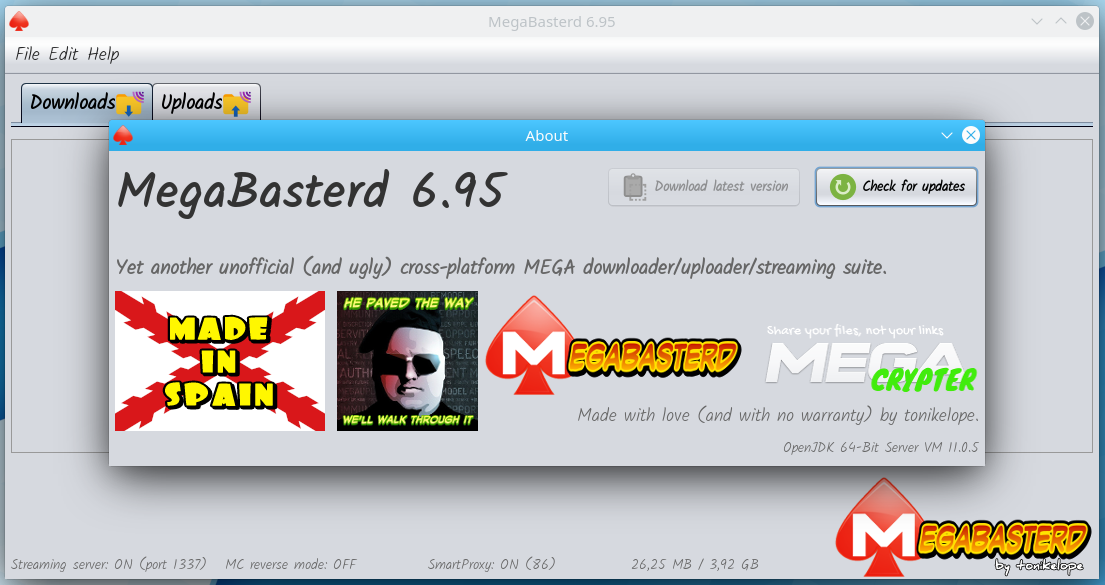
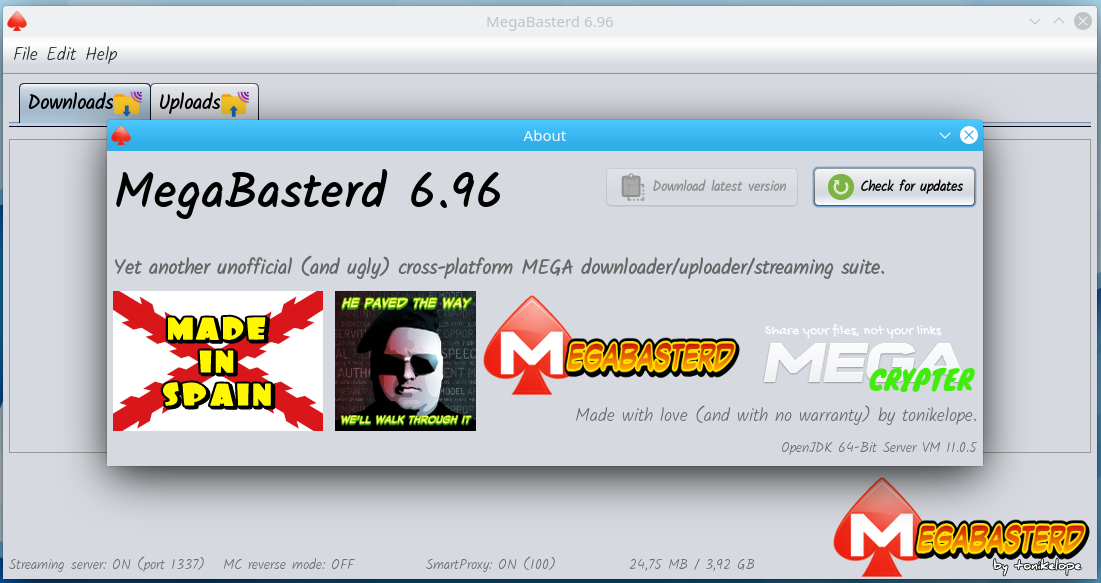
6.96
- PROGRESS  WATCHDOG 300 SECS ALL TRANSFERENCED

(cherry picked from commit c21cf46b2295355a49cc9d0d2cc2b2f50563e68b)

diff --git a/src/main/java/com/tonikelope/megabasterd/Upload.java b/src/main/java/com/tonikelope/megabasterd/Upload.java
@@ -1,5 +1,6 @@
 package com.tonikelope.megabasterd;
 
+import static com.tonikelope.megabasterd.Download.PROGRESS_WATCHDOG_TIMEOUT;
 import static com.tonikelope.megabasterd.MainPanel.*;
 import static com.tonikelope.megabasterd.MiscTools.*;
 import java.io.File;
@@ -75,11 +76,13 @@ public class Upload implements Transference, Runnable, SecureSingleThreadNotifia
     private volatile boolean _canceled;
     private volatile String _temp_mac_data;
     private final boolean _priority;
+    private final Object _progress_watchdog_lock;
 
     public Upload(MainPanel main_panel, MegaAPI ma, String filename, String parent_node, int[] ul_key, String ul_url, String root_node, byte[] share_key, String folder_link, boolean priority) {
 
         _notified = false;
         _priority = priority;
+        _progress_watchdog_lock = new Object();
         _frozen = main_panel.isInit_paused();
         _provision_ok = false;
         _status_error = null;
@@ -117,6 +120,7 @@ public class Upload implements Transference, Runnable, SecureSingleThreadNotifia
 
         _notified = false;
         _priority = upload.isPriority();
+        _progress_watchdog_lock = new Object();
         _provision_ok = false;
         _status_error = null;
         _auto_retry_on_error = true;
@@ -802,6 +806,36 @@ public class Upload implements Transference, Runnable, SecureSingleThreadNotifia
                     getView().getProgress_pbar().setVisible(true);
                 });
 
+                THREAD_POOL.execute(() -> {
+
+                    //PROGRESS WATCHDOG If a upload remains more than PROGRESS_WATCHDOG_TIMEOUT seconds without receiving data, we force fatal error in order to restart it.
+                    LOG.log(Level.INFO, "{0} PROGRESS WATCHDOG HELLO!", Thread.currentThread().getName());
+
+                    long last_progress, progress = getProgress();
+
+                    do {
+                        last_progress = progress;
+
+                        synchronized (_progress_watchdog_lock) {
+                            try {
+                                _progress_watchdog_lock.wait(PROGRESS_WATCHDOG_TIMEOUT * 1000);
+                                progress = getProgress();
+                            } catch (InterruptedException ex) {
+                                progress = -1;
+                                Logger.getLogger(Download.class.getName()).log(Level.SEVERE, null, ex);
+                            }
+                        }
+
+                    } while (!isExit() && !_thread_pool.isShutdown() && progress < getFile_size() && (isPaused() || progress > last_progress));
+
+                    if (!isExit() && !_thread_pool.isShutdown() && _status_error == null && progress < getFile_size() && progress <= last_progress) {
+                        stopUploader("PROGRESS WATCHDOG TIMEOUT!");
+                    }
+
+                    LOG.log(Level.INFO, "{0} PROGRESS WATCHDOG BYE BYE!", Thread.currentThread().getName());
+
+                });
+
                 secureWait();
 
                 LOG.log(Level.INFO, "{0} Chunkuploaders finished! {1}", new Object[]{Thread.currentThread().getName(), this.getFile_name()});
@@ -1045,6 +1079,10 @@ public class Upload implements Transference, Runnable, SecureSingleThreadNotifia
         }
 
         _exit = true;
+
+        synchronized (_progress_watchdog_lock) {
+            _progress_watchdog_lock.notifyAll();
+        }
 
         LOG.log(Level.INFO, "{0} Uploader {1} BYE BYE", new Object[]{Thread.currentThread().getName(), this.getFile_name()});
     }

diff --git a/src/main/java/com/tonikelope/megabasterd/Download.java b/src/main/java/com/tonikelope/megabasterd/Download.java
@@ -46,7 +46,6 @@ import javax.swing.JComponent;
 public class Download implements Transference, Runnable, SecureSingleThreadNotifiable {
 
     public static final boolean VERIFY_CBC_MAC_DEFAULT = false;
-    public static final int PROGRESS_WATCHDOG_TIMEOUT = 180;
     public static final boolean USE_SLOTS_DEFAULT = true;
     public static final int WORKERS_DEFAULT = 6;
     public static final boolean USE_MEGA_ACCOUNT_DOWN = false;
@@ -658,7 +657,7 @@ public class Download implements Transference, Runnable, SecureSingleThreadNotif
                         THREAD_POOL.execute(() -> {
 
                             //PROGRESS WATCHDOG If a download remains more than PROGRESS_WATCHDOG_TIMEOUT seconds without receiving data, we force fatal error in order to restart it.
-                            LOG.log(Level.INFO, "{0} SMART PROXY PROGRESS WATCHDOG HELLO!", Thread.currentThread().getName());
+                            LOG.log(Level.INFO, "{0} PROGRESS WATCHDOG HELLO!", Thread.currentThread().getName());
 
                             long last_progress, progress = getProgress();
 
@@ -675,17 +674,17 @@ public class Download implements Transference, Runnable, SecureSingleThreadNotif
                                     }
                                 }
 
-                            } while (!isExit() && !_thread_pool.isShutdown() && progress < getFile_size() && (!isTurbo() || isPaused() || progress > last_progress));
+                            } while (!isExit() && !_thread_pool.isShutdown() && progress < getFile_size() && (isPaused() || progress > last_progress));
 
-                            if (!isExit() && isTurbo() && !_thread_pool.isShutdown() && _status_error == null && progress < getFile_size() && progress <= last_progress) {
-                                stopDownloader("SMART PROXY PROGRESS WATCHDOG TIMEOUT!");
+                            if (!isExit() && !_thread_pool.isShutdown() && _status_error == null && progress < getFile_size() && progress <= last_progress) {
+                                stopDownloader("PROGRESS WATCHDOG TIMEOUT!");
 
                                 if (MainPanel.getProxy_manager() != null) {
                                     MainPanel.getProxy_manager().refreshProxyList(); //Force SmartProxy proxy list refresh
                                 }
                             }
 
-                            LOG.log(Level.INFO, "{0} SMART PROXY PROGRESS WATCHDOG BYE BYE!", Thread.currentThread().getName());
+                            LOG.log(Level.INFO, "{0} PROGRESS WATCHDOG BYE BYE!", Thread.currentThread().getName());
 
                         });
 

diff --git a/src/main/java/com/tonikelope/megabasterd/ChunkDownloader.java b/src/main/java/com/tonikelope/megabasterd/ChunkDownloader.java
@@ -218,6 +218,9 @@ public class ChunkDownloader implements Runnable, SecureSingleThreadNotifiable {
                 if (_current_smart_proxy != null) {
                     con.setConnectTimeout(Transference.HTTP_PROXY_CONNECT_TIMEOUT);
                     con.setReadTimeout(Transference.HTTP_PROXY_READ_TIMEOUT);
+                } else {
+                    con.setConnectTimeout(Transference.HTTP_CONNECT_TIMEOUT);
+                    con.setReadTimeout(Transference.HTTP_READ_TIMEOUT);
                 }
 
                 con.setUseCaches(false);

diff --git a/src/main/java/com/tonikelope/megabasterd/Transference.java b/src/main/java/com/tonikelope/megabasterd/Transference.java
@@ -12,8 +12,11 @@ public interface Transference {
     int MAX_WORKERS = 20;
     int HTTP_PROXY_CONNECT_TIMEOUT = 15000;
     int HTTP_PROXY_READ_TIMEOUT = 15000;
+    int HTTP_CONNECT_TIMEOUT = 60000;
+    int HTTP_READ_TIMEOUT = 60000;
     int MAX_SIM_TRANSFERENCES = 20;
     int SIM_TRANSFERENCES_DEFAULT = 4;
+    int PROGRESS_WATCHDOG_TIMEOUT = 300;
     boolean LIMIT_TRANSFERENCE_SPEED_DEFAULT = false;
     int MAX_TRANSFERENCE_SPEED_DEFAULT = 5;
     int MAX_WAIT_WORKERS_SHUTDOWN = 15;

diff --git a/src/main/java/com/tonikelope/megabasterd/ChunkUploader.java b/src/main/java/com/tonikelope/megabasterd/ChunkUploader.java
@@ -151,6 +151,10 @@ public class ChunkUploader implements Runnable, SecureSingleThreadNotifiable {
                     con = (HttpURLConnection) url.openConnection();
                 }
 
+                con.setConnectTimeout(Transference.HTTP_CONNECT_TIMEOUT);
+
+                con.setReadTimeout(Transference.HTTP_READ_TIMEOUT);
+
                 con.setRequestMethod("POST");
 
                 con.setDoOutput(true);

diff --git a/src/main/java/com/tonikelope/megabasterd/MainPanel.java b/src/main/java/com/tonikelope/megabasterd/MainPanel.java
@@ -54,7 +54,7 @@ import javax.swing.UIManager;
  */
 public final class MainPanel {
 
-    public static final String VERSION = "6.95";
+    public static final String VERSION = "6.96";
     public static final int THROTTLE_SLICE_SIZE = 16 * 1024;
     public static final int DEFAULT_BYTE_BUFFER_SIZE = 16 * 1024;
     public static final int STREAMER_PORT = 1337;
